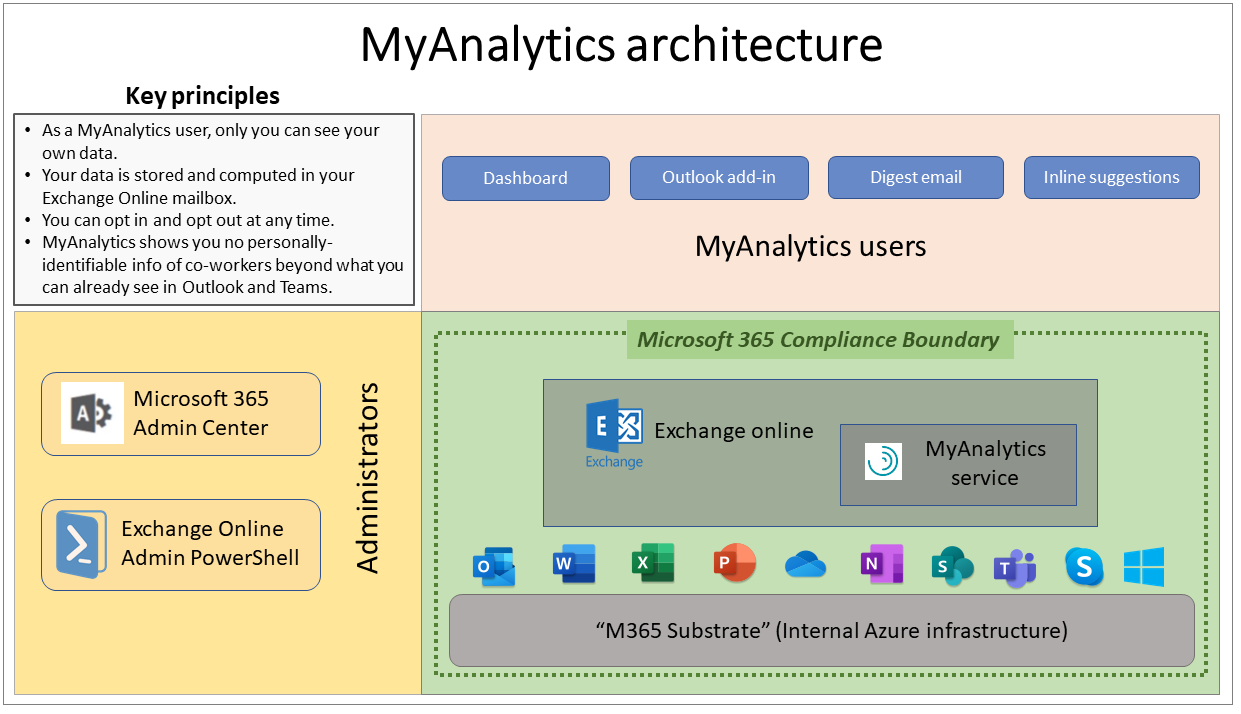
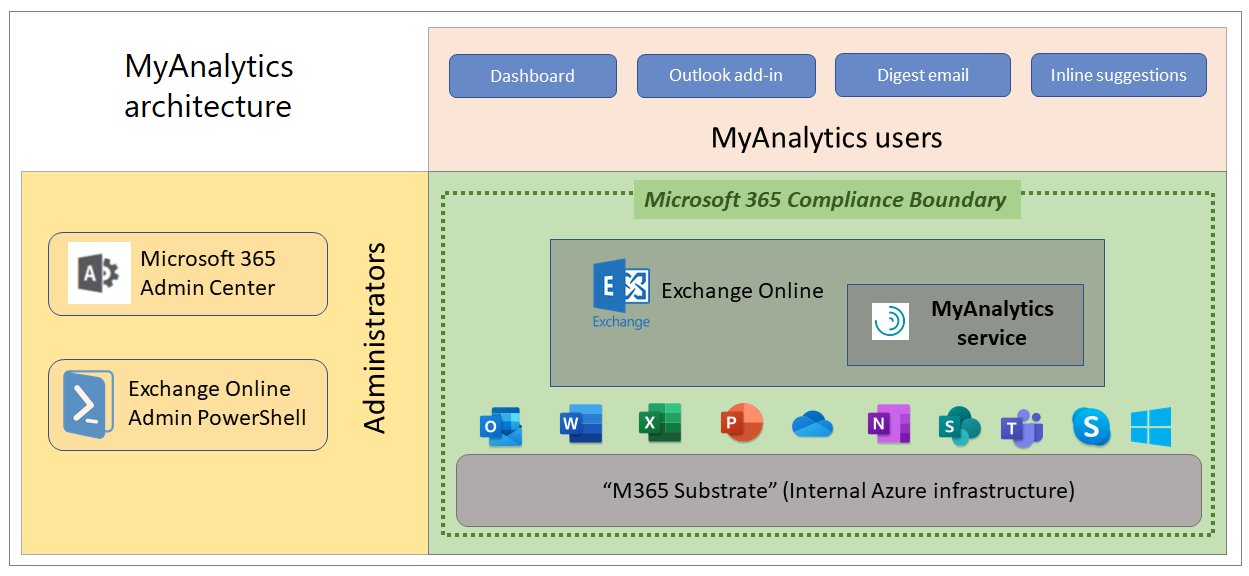
format

diff --git a/WorkplaceAnalytics/MyAnalytics/Overview/privacy-guide-users.md b/WorkplaceAnalytics/MyAnalytics/Overview/privacy-guide-users.md
@@ -39,8 +39,6 @@ Microsoft has designed MyAnalytics to support your organization’s needs to com
 
 </ul>
 
-![Outlook inbox](../../images/mya/overview/mya-arch-2.png)
-
 ## How MyAnalytics works
 
 MyAnalytics presents insights in the following ways:
@@ -52,14 +50,29 @@ MyAnalytics presents insights in the following ways:
 3. [Weekly digest](https://docs.microsoft.com/workplace-analytics/myanalytics/use/email-digest-2)
 
 4. [Inline suggestions in Outlook](https://docs.microsoft.com/workplace-analytics/myanalytics/use/mya-notifications)
+ 
+## MyAnalytics architecture
+
+In the following architecture illustration, note the relationship of MyAnalytics to Exchange Online. This placement underscores the fact that any data that you can view in MyAnalytics is the same data that's visible in your Exchange mailbox, as described in the following principles about data privacy.
+
+#### Key principles
+
+* As a MyAnalytics user, only you can see your own data.
+* Your data is stored and computed in your Exchange Online mailbox. 
+* You can opt in and opt out at any time.
+* MyAnalytics shows you no personally-identifiable info of co-workers beyond what you can already see in Outlook and Teams.
+
+![Outlook inbox](../../images/mya/overview/mya-arch-2.png)
+
+### Data types
 
 MyAnalytics provides insights with the following types of data.
 
-1. **Mailbox data:** Email, calendar, chat, and call activity that you generate by using Microsoft 365, such as time that you spend in meetings or emails that you send to a specific person or group.
+1. [Mailbox data](#mailbox-data) &ndash; Email, calendar, chat, and call activity that you generate by using Microsoft 365, such as time that you spend in meetings or emails that you send to a specific person or group.
 
-2. **Windows 10 activity history data:** Data on your usage of apps and services on your device: whether you worked on a document and whether you browsed the web.
+2. [Windows 10 activity history data](#windows-10-activity-history-data) &ndash; Data on your usage of apps and services on your device: whether you worked on a document and whether you browsed the web.
 
-3. **Incremental data:** Data that would otherwise be unavailable to you but is presented in an aggregated form designed to protect individual privacy.
+3. [Incremental data](#incremental-data) &ndash; Data that would otherwise be unavailable to you but is presented in an aggregated form designed to protect individual privacy.
 
 ## Mailbox data
 
